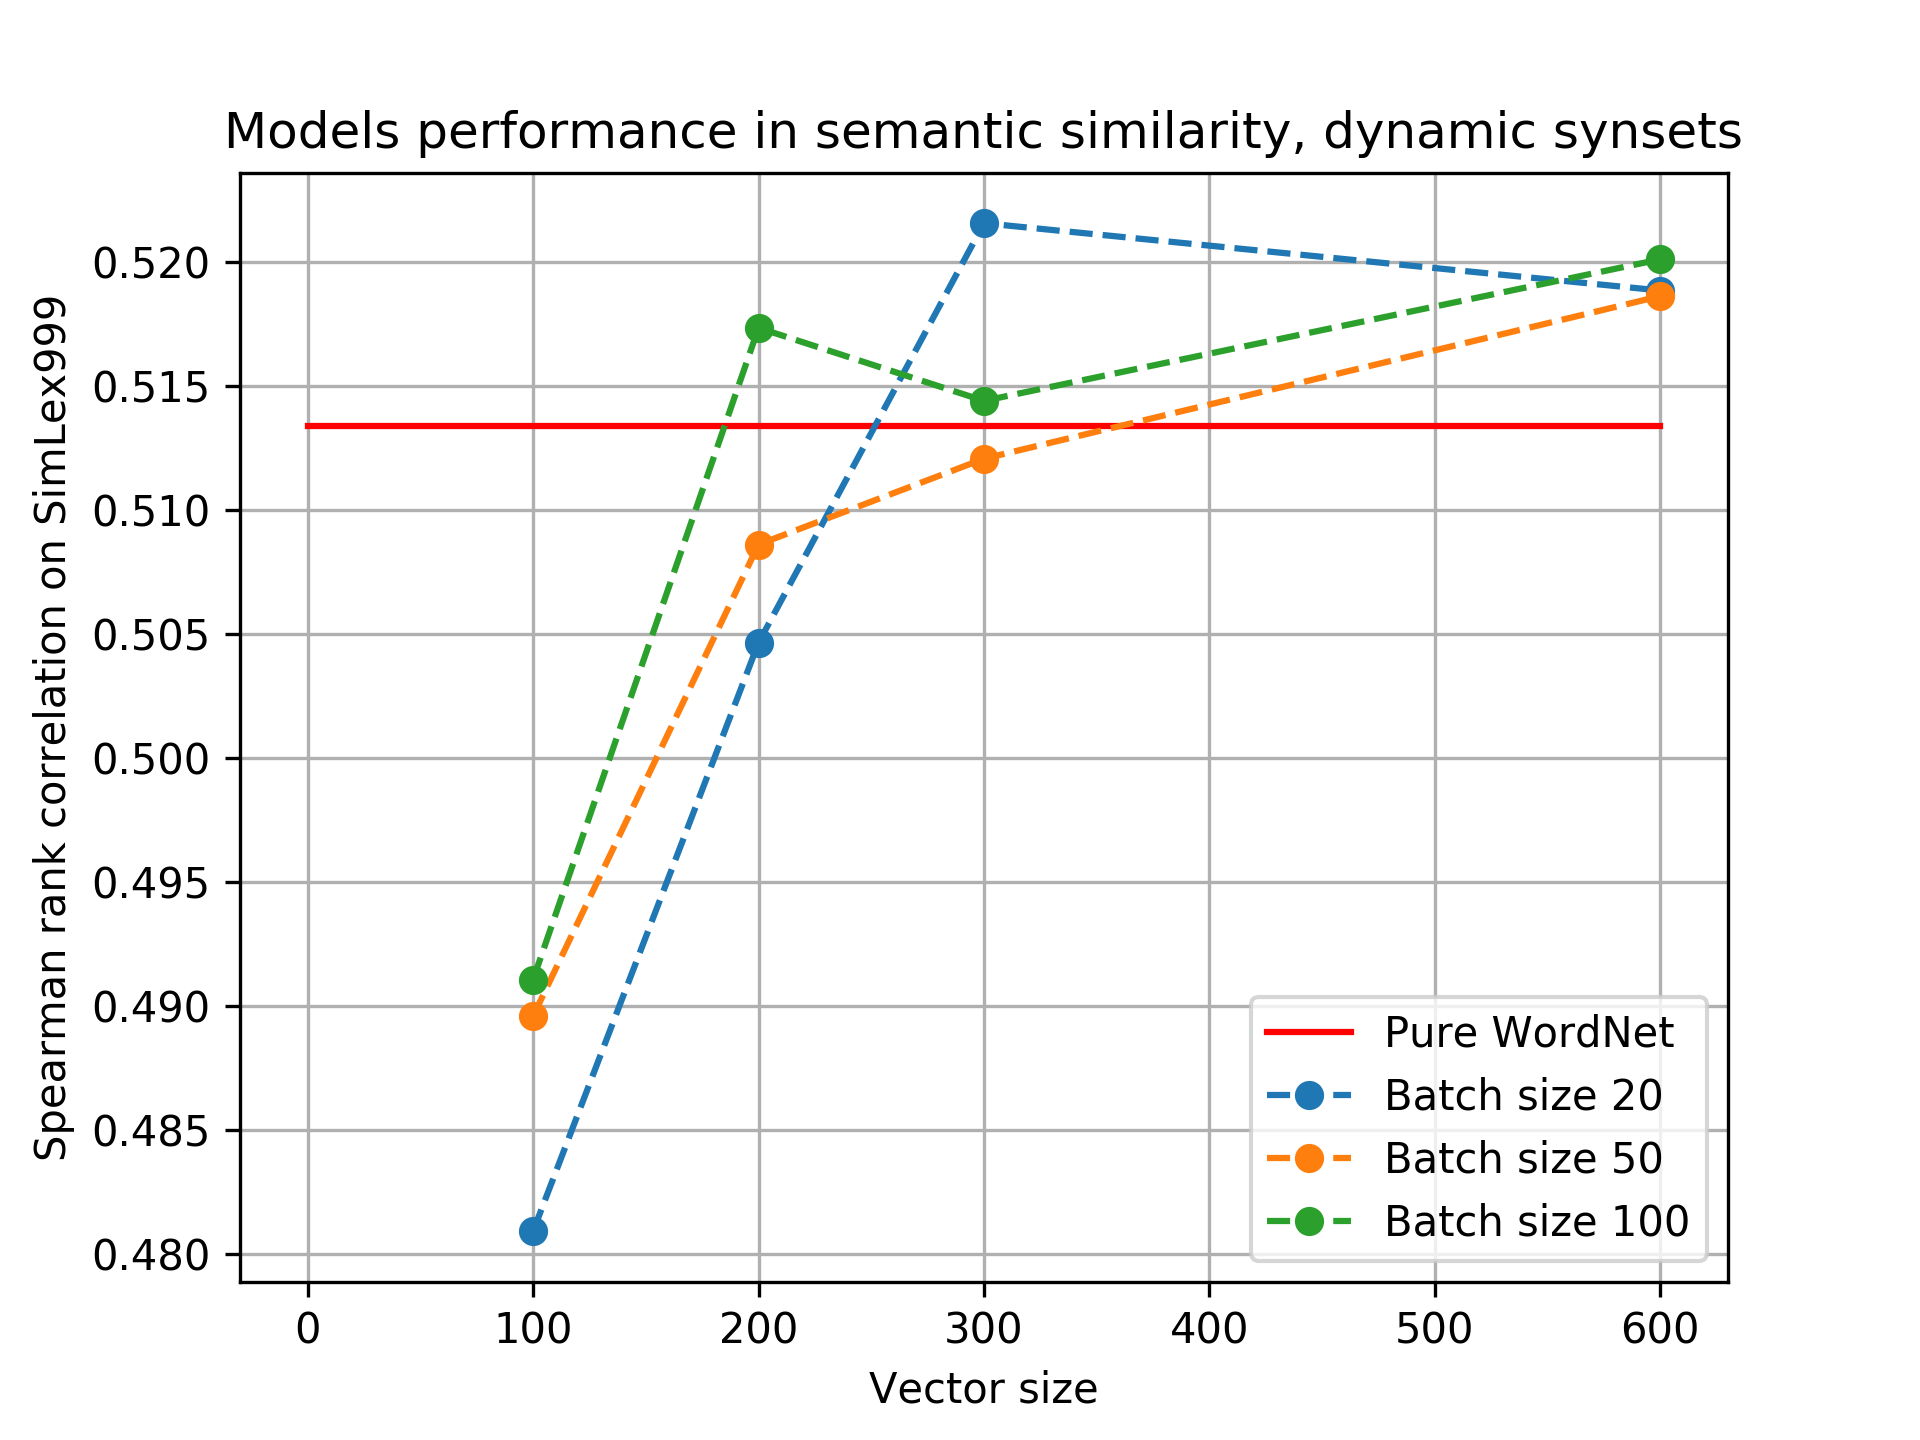
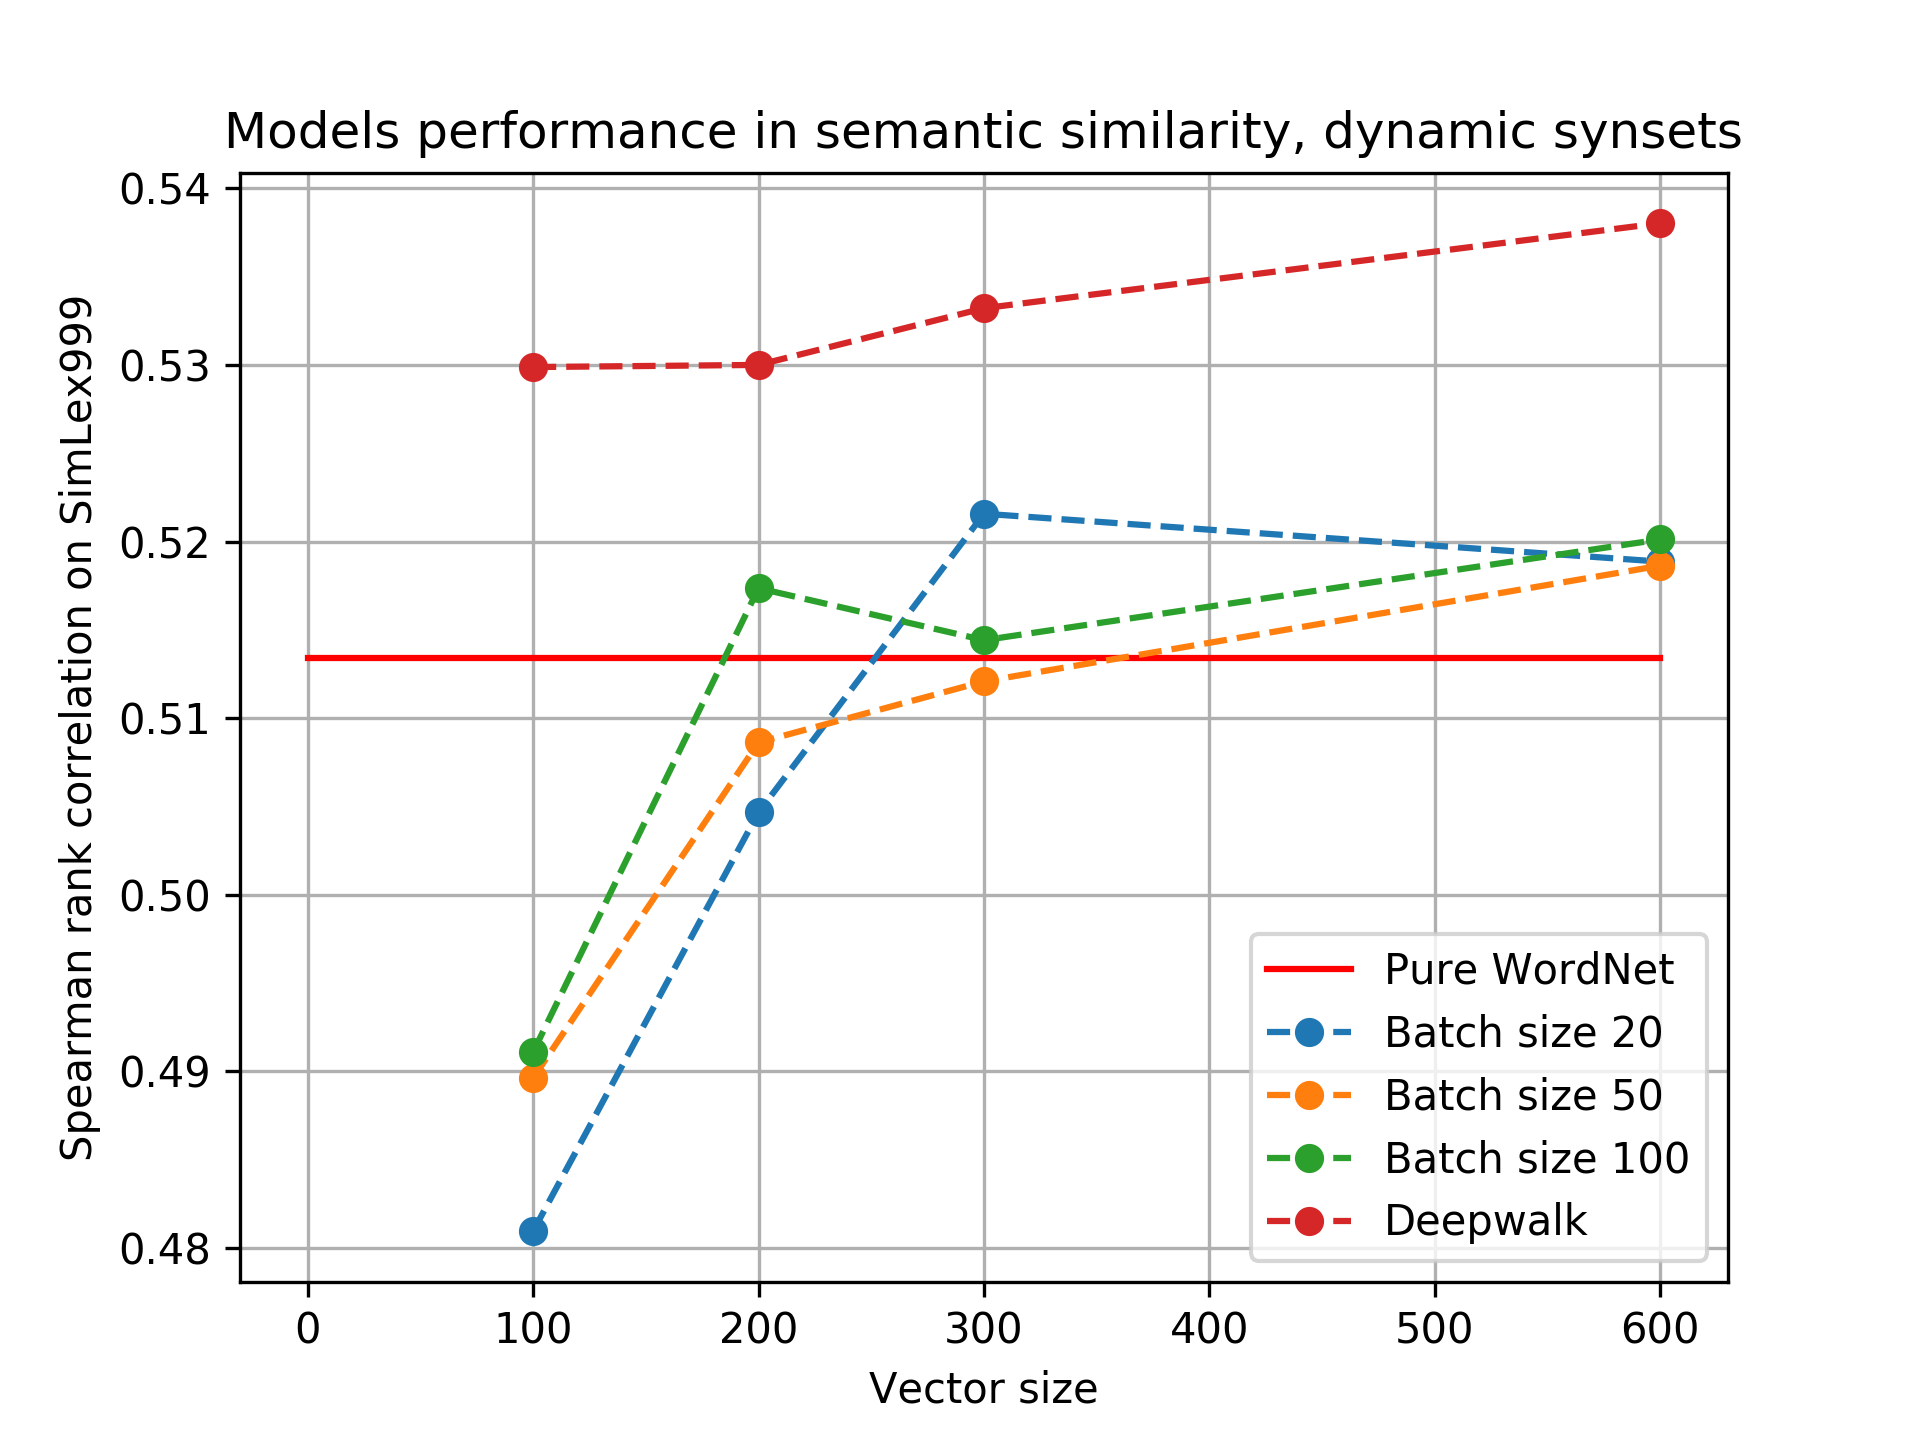
New Deepwalk results

Changed region(s): [[0.0, 0.125, 0.9062, 0.9062], [0.6562, 0.6562, 0.875, 0.875], [0.0625, 0.125, 0.125, 0.1875]]

diff --git a/results/draw.py b/results/draw.py
@@ -12,7 +12,6 @@ wordnet_scores = []
 human_scores = []
 dhuman_scores = []
 
-
 for line in sys.stdin:
     if line.strip().startswith('#'):
         continue
@@ -34,7 +33,6 @@ for line in sys.stdin:
     dhuman = float(dynamic_human)
     dhuman_scores.append(dhuman)
 
-
 if 'jcn-semcor' in corpus:
     graph_score = 0.4874
 elif 'jcn-brown' in corpus:
@@ -54,28 +52,29 @@ plt.plot((0, np.max(vectorsizes)), (graph_score, graph_score), 'red', label='Pur
 for batch in sorted(diff_bsizes):
     x = vectorsizes[batchsizes == batch]
     y = human_scores[batchsizes == batch]
-    plt.plot(x, y, linestyle='dashed', marker='o', label='Batch size '+str(int(batch)))
+    plt.plot(x, y, linestyle='dashed', marker='o',
+             label='Deepwalk' if int(batch) == 166 else 'Batch size ' + str(int(batch)))
 plt.xlabel('Vector size')
 plt.ylabel('Spearman rank correlation on SimLex999')
 plt.legend(loc='best')
 plt.grid(True)
 plt.title('Models performance in semantic similarity, static synsets')
 # plt.show()
-plt.savefig(corpus+'_static_synsets.png', dpi=300)
+plt.savefig(corpus + '_static_synsets.png', dpi=300)
 plt.close()
-
 
 plt.figure()
 plt.plot((0, np.max(vectorsizes)), (graph_score, graph_score), 'red', label='Pure WordNet')
 for batch in sorted(diff_bsizes):
     x = vectorsizes[batchsizes == batch]
     y = dhuman_scores[batchsizes == batch]
-    plt.plot(x, y, linestyle='dashed', marker='o', label='Batch size '+str(int(batch)))
+    plt.plot(x, y, linestyle='dashed', marker='o',
+             label='Deepwalk' if int(batch) == 166 else 'Batch size ' + str(int(batch)))
 plt.xlabel('Vector size')
 plt.ylabel('Spearman rank correlation on SimLex999')
 plt.legend(loc='best')
 plt.grid(True)
 plt.title('Models performance in semantic similarity, dynamic synsets')
 # plt.show()
-plt.savefig(corpus+'_dynamic_synsets.png', dpi=300)
+plt.savefig(corpus + '_dynamic_synsets.png', dpi=300)
 plt.close()
